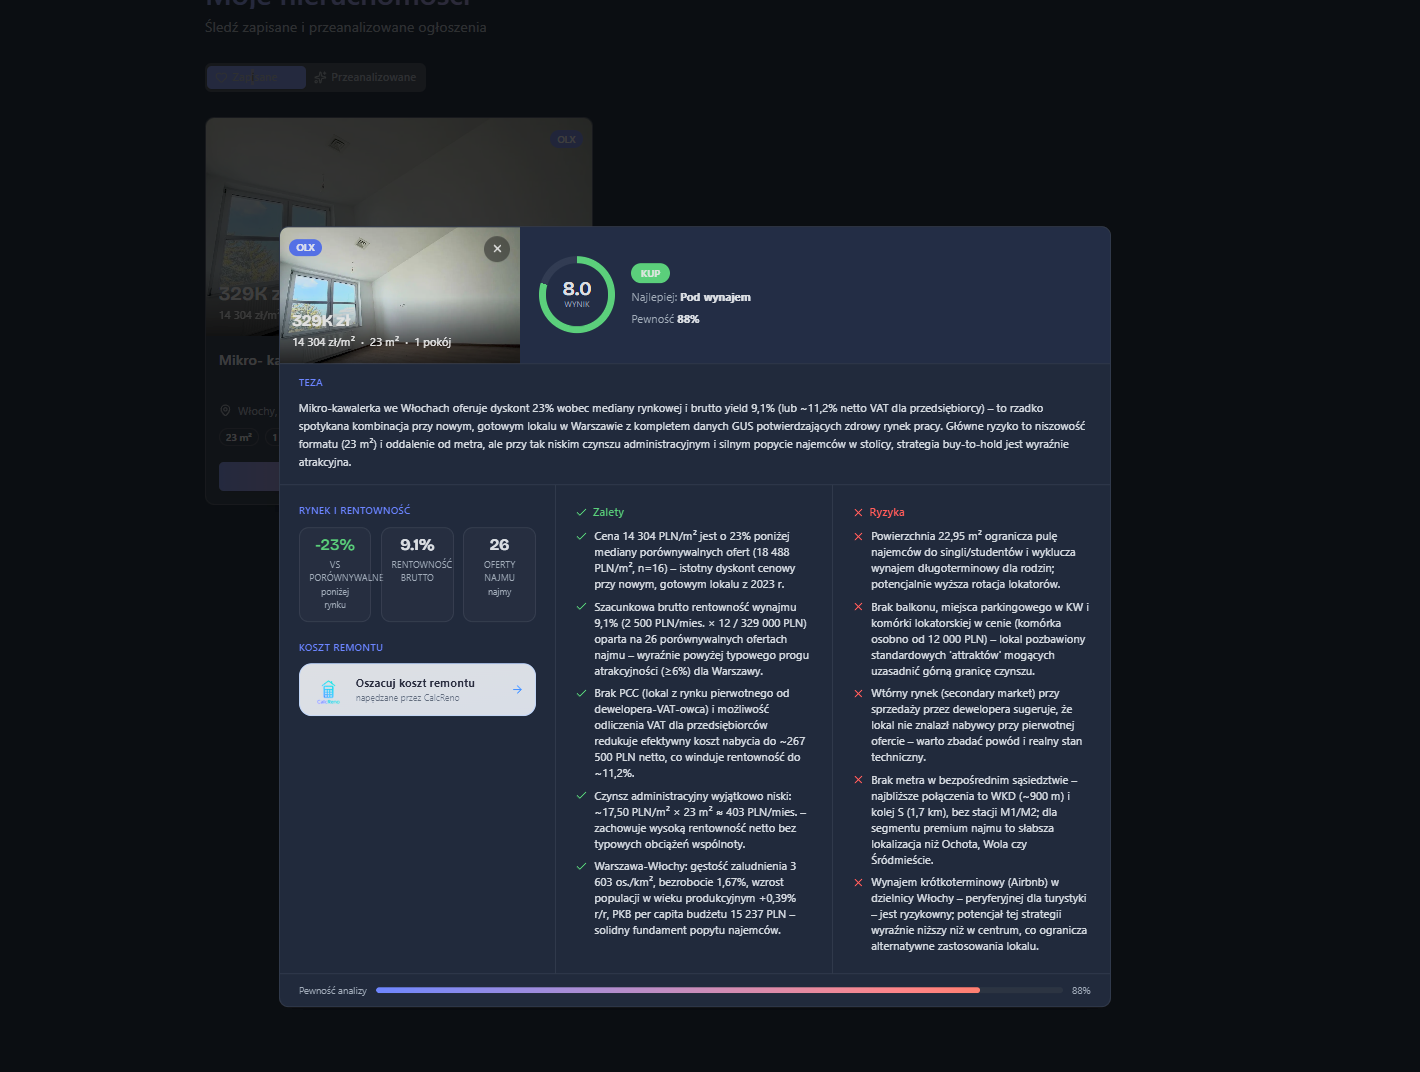
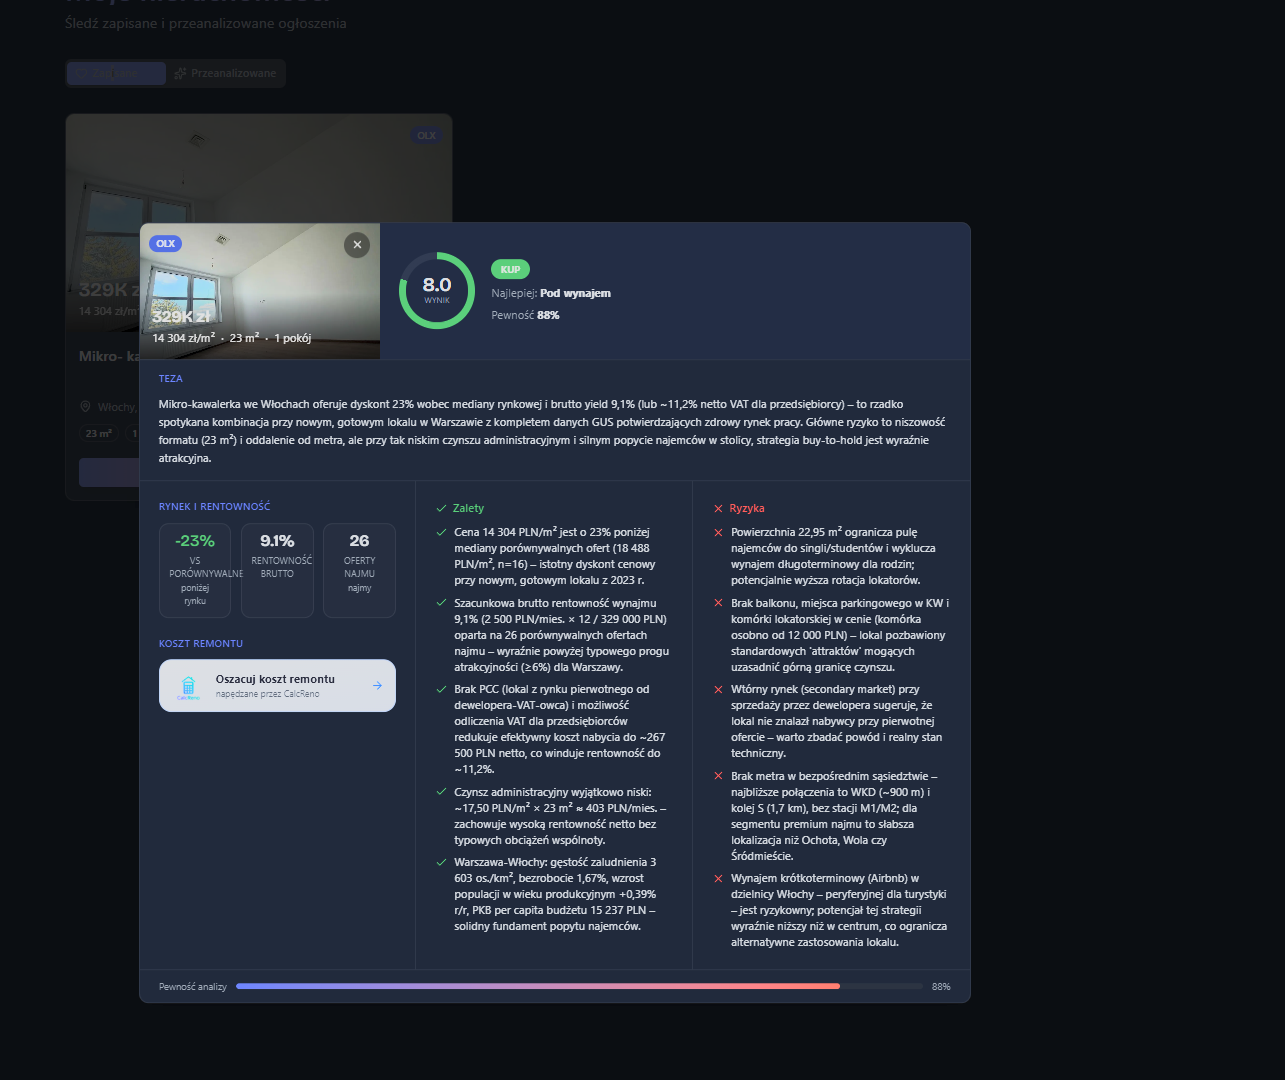
style(renoscout): tighter (less-wide) crops + larger hero in showcase
Crop listings to heading + 2-column card grid (was 3-col, ~2:1 -> ~1.3:1) and
analysis to the score panel, so content reads bigger. Widen RenoScout's image
column (0.78fr/1.55fr) so the hero displays larger; CalcReno/RenoTimeline layout
unchanged.

Changed region(s): [[0.0311, 0.0, 0.8093, 0.9543], [0.1245, 0.0, 0.3424, 0.0308]]

diff --git a/src/components/sections/AppSwitcherSection.tsx b/src/components/sections/AppSwitcherSection.tsx
@@ -112,7 +112,7 @@ export default function AppSwitcherSection() {
         </div>
 
         {/* Main panel */}
-        <div className="grid grid-cols-1 lg:grid-cols-[1fr_1.2fr] gap-16 items-center">
+        <div className={`grid grid-cols-1 gap-16 items-center ${app.key === 'renoscout' ? 'lg:grid-cols-[0.78fr_1.55fr]' : 'lg:grid-cols-[1fr_1.2fr]'}`}>
 
           {/* Left: text */}
           <div>